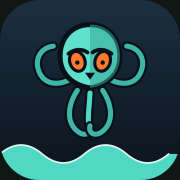
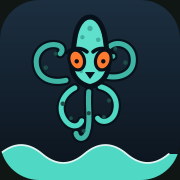
Redesign kraken mark: pointy squid head, asymmetric tentacles
Previous mark was round-headed and symmetric, which read as a generic
blob/owl rather than a kraken. Reshaped the mantle to taper to a point,
made each of the five tentacles a distinct length/curl instead of mirrored
pairs, and swapped the flat two-tone shading for scattered sucker-dot
texture on both the mantle and tentacles.

Changed region(s): [[0.1667, 0.0833, 0.8333, 0.8056]]

diff --git a/src/components/art/KrakenMark.tsx b/src/components/art/KrakenMark.tsx
@@ -1,6 +1,7 @@
 /**
  * Stylized kraken emblem in the headcover's embroidered-patch style:
- * flat teal fills, thick black outlines, angry orange eyes.
+ * pointed squid-like mantle, flat teal fill with sucker-dot texture,
+ * thick black outlines, five asymmetric tentacles, angry orange eyes.
  */
 export function KrakenMark({ size = 40, className }: { size?: number; className?: string }) {
   return (
@@ -13,50 +14,71 @@ export function KrakenMark({ size = 40, className }: { size?: number; className?
       aria-label="Kraken emblem"
     >
       <g strokeLinecap="round" strokeLinejoin="round">
-        {/* tentacles, drawn behind the head, double-stroked for a thick ink outline */}
+        {/* tentacles, drawn behind the head, double-stroked for a thick ink outline.
+            each one is a distinct shape/length/curl so nothing mirrors. */}
         <g fill="none">
-          <path d="M66,108 C44,118 24,112 18,90 C13,72 24,56 42,54" stroke="#0a1420" strokeWidth="15" />
-          <path d="M66,108 C44,118 24,112 18,90 C13,72 24,56 42,54" stroke="#3fb6a5" strokeWidth="8" />
+          <path d="M62,108 C38,114 16,104 15,80 C14,62 30,49 47,52 C55,53 59,60 53,66" stroke="#0a1420" strokeWidth="15" />
+          <path d="M62,108 C38,114 16,104 15,80 C14,62 30,49 47,52 C55,53 59,60 53,66" stroke="#3fb6a5" strokeWidth="8" />
 
-          <path d="M80,124 C64,148 62,176 82,190 C92,197 103,192 100,180" stroke="#0a1420" strokeWidth="15" />
-          <path d="M80,124 C64,148 62,176 82,190 C92,197 103,192 100,180" stroke="#3fb6a5" strokeWidth="8" />
+          <path d="M76,120 C56,130 48,152 60,170 C68,182 82,184 87,172" stroke="#0a1420" strokeWidth="15" />
+          <path d="M76,120 C56,130 48,152 60,170 C68,182 82,184 87,172" stroke="#4fd8c4" strokeWidth="8" />
 
-          <path d="M100,128 C99,156 92,182 106,196" stroke="#0a1420" strokeWidth="15" />
-          <path d="M100,128 C99,156 92,182 106,196" stroke="#4fd8c4" strokeWidth="8" />
+          <path d="M98,126 C96,152 102,176 94,194 C90,202 80,202 78,192" stroke="#0a1420" strokeWidth="15" />
+          <path d="M98,126 C96,152 102,176 94,194 C90,202 80,202 78,192" stroke="#3fb6a5" strokeWidth="8" />
 
-          <path d="M120,124 C136,148 138,176 118,190 C108,197 97,192 100,180" stroke="#0a1420" strokeWidth="15" />
-          <path d="M120,124 C136,148 138,176 118,190 C108,197 97,192 100,180" stroke="#3fb6a5" strokeWidth="8" />
+          <path d="M116,118 C134,122 146,138 140,158 C136,172 120,178 112,168" stroke="#0a1420" strokeWidth="15" />
+          <path d="M116,118 C134,122 146,138 140,158 C136,172 120,178 112,168" stroke="#4fd8c4" strokeWidth="8" />
 
-          <path d="M134,108 C156,118 176,112 182,90 C187,72 176,56 158,54" stroke="#0a1420" strokeWidth="15" />
-          <path d="M134,108 C156,118 176,112 182,90 C187,72 176,56 158,54" stroke="#3fb6a5" strokeWidth="8" />
+          <path d="M128,102 C152,106 172,94 168,70 C165,53 146,45 133,53 C126,57 127,66 136,70" stroke="#0a1420" strokeWidth="15" />
+          <path d="M128,102 C152,106 172,94 168,70 C165,53 146,45 133,53 C126,57 127,66 136,70" stroke="#3fb6a5" strokeWidth="8" />
         </g>
 
-        {/* head */}
+        {/* suckers along the tentacles for texture */}
+        <g fill="#1c4d47">
+          <circle cx="30" cy="88" r="3.6" />
+          <circle cx="46" cy="66" r="3.2" />
+          <circle cx="57" cy="145" r="3.6" />
+          <circle cx="70" cy="168" r="3" />
+          <circle cx="98" cy="160" r="3.4" />
+          <circle cx="90" cy="188" r="3" />
+          <circle cx="130" cy="140" r="3.4" />
+          <circle cx="122" cy="166" r="3" />
+          <circle cx="156" cy="80" r="3.6" />
+          <circle cx="140" cy="58" r="3" />
+        </g>
+
+        {/* head — pointed mantle, squid-style */}
         <path
-          d="M100,20 C132,20 150,46 147,76 C145,98 128,116 100,120 C72,116 55,98 53,76 C50,46 68,20 100,20 Z"
+          d="M100,8 C112,8 121,22 124,42 L129,78 C131,100 118,114 100,118 C82,114 69,100 71,78 L76,42 C79,22 88,8 100,8 Z"
           fill="#5fe0cd"
           stroke="#0a1420"
           strokeWidth="8"
         />
-        {/* head shading */}
-        <path
-          d="M100,20 C132,20 150,46 147,76 C145,98 128,116 100,120 L100,20 Z"
-          fill="#39a596"
-          opacity="0.55"
-        />
+
+        {/* mantle texture: scattered suckers instead of a flat shade split */}
+        <g fill="#39a596" opacity="0.85">
+          <circle cx="100" cy="26" r="4.2" />
+          <circle cx="88" cy="40" r="3.4" />
+          <circle cx="113" cy="44" r="3.6" />
+          <circle cx="80" cy="60" r="3" />
+          <circle cx="121" cy="62" r="3.2" />
+          <circle cx="100" cy="100" r="3.6" />
+          <circle cx="86" cy="94" r="2.8" />
+          <circle cx="115" cy="92" r="3" />
+        </g>
 
         {/* brow */}
-        <path d="M66,66 C76,58 88,58 96,64" fill="none" stroke="#0a1420" strokeWidth="6" />
-        <path d="M134,66 C124,58 112,58 104,64" fill="none" stroke="#0a1420" strokeWidth="6" />
+        <path d="M64,64 C74,56 87,56 95,63" fill="none" stroke="#0a1420" strokeWidth="6" />
+        <path d="M136,64 C126,56 113,56 105,63" fill="none" stroke="#0a1420" strokeWidth="6" />
 
         {/* eyes */}
-        <ellipse cx="80" cy="78" rx="12" ry="16" transform="rotate(-18 80 78)" fill="#ff7a2e" stroke="#0a1420" strokeWidth="5" />
-        <ellipse cx="120" cy="78" rx="12" ry="16" transform="rotate(18 120 78)" fill="#ff7a2e" stroke="#0a1420" strokeWidth="5" />
-        <circle cx="80" cy="80" r="3.5" fill="#0a1420" />
-        <circle cx="120" cy="80" r="3.5" fill="#0a1420" />
+        <ellipse cx="79" cy="76" rx="12" ry="16" transform="rotate(-18 79 76)" fill="#ff7a2e" stroke="#0a1420" strokeWidth="5" />
+        <ellipse cx="121" cy="76" rx="12" ry="16" transform="rotate(18 121 76)" fill="#ff7a2e" stroke="#0a1420" strokeWidth="5" />
+        <circle cx="79" cy="78" r="3.5" fill="#0a1420" />
+        <circle cx="121" cy="78" r="3.5" fill="#0a1420" />
 
         {/* beak */}
-        <path d="M92,96 L108,96 L100,107 Z" fill="#0a1420" />
+        <path d="M92,95 L108,95 L100,106 Z" fill="#0a1420" />
       </g>
     </svg>
   );
